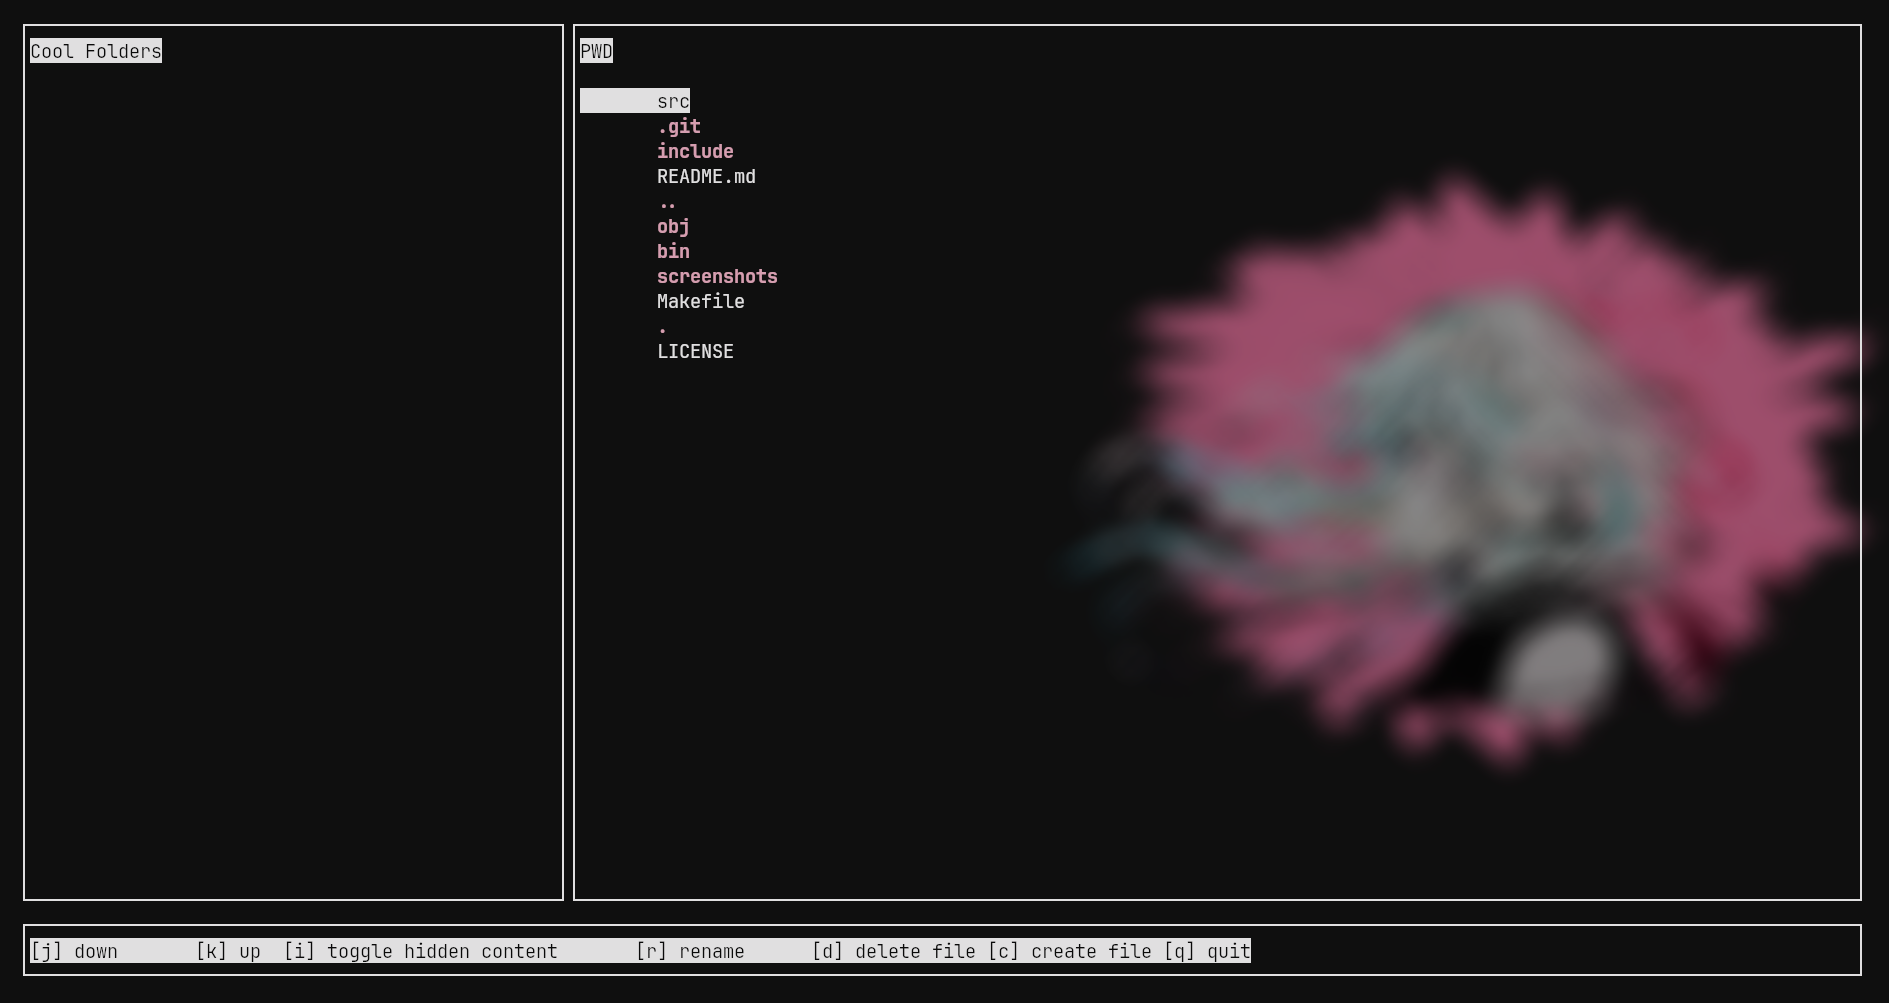
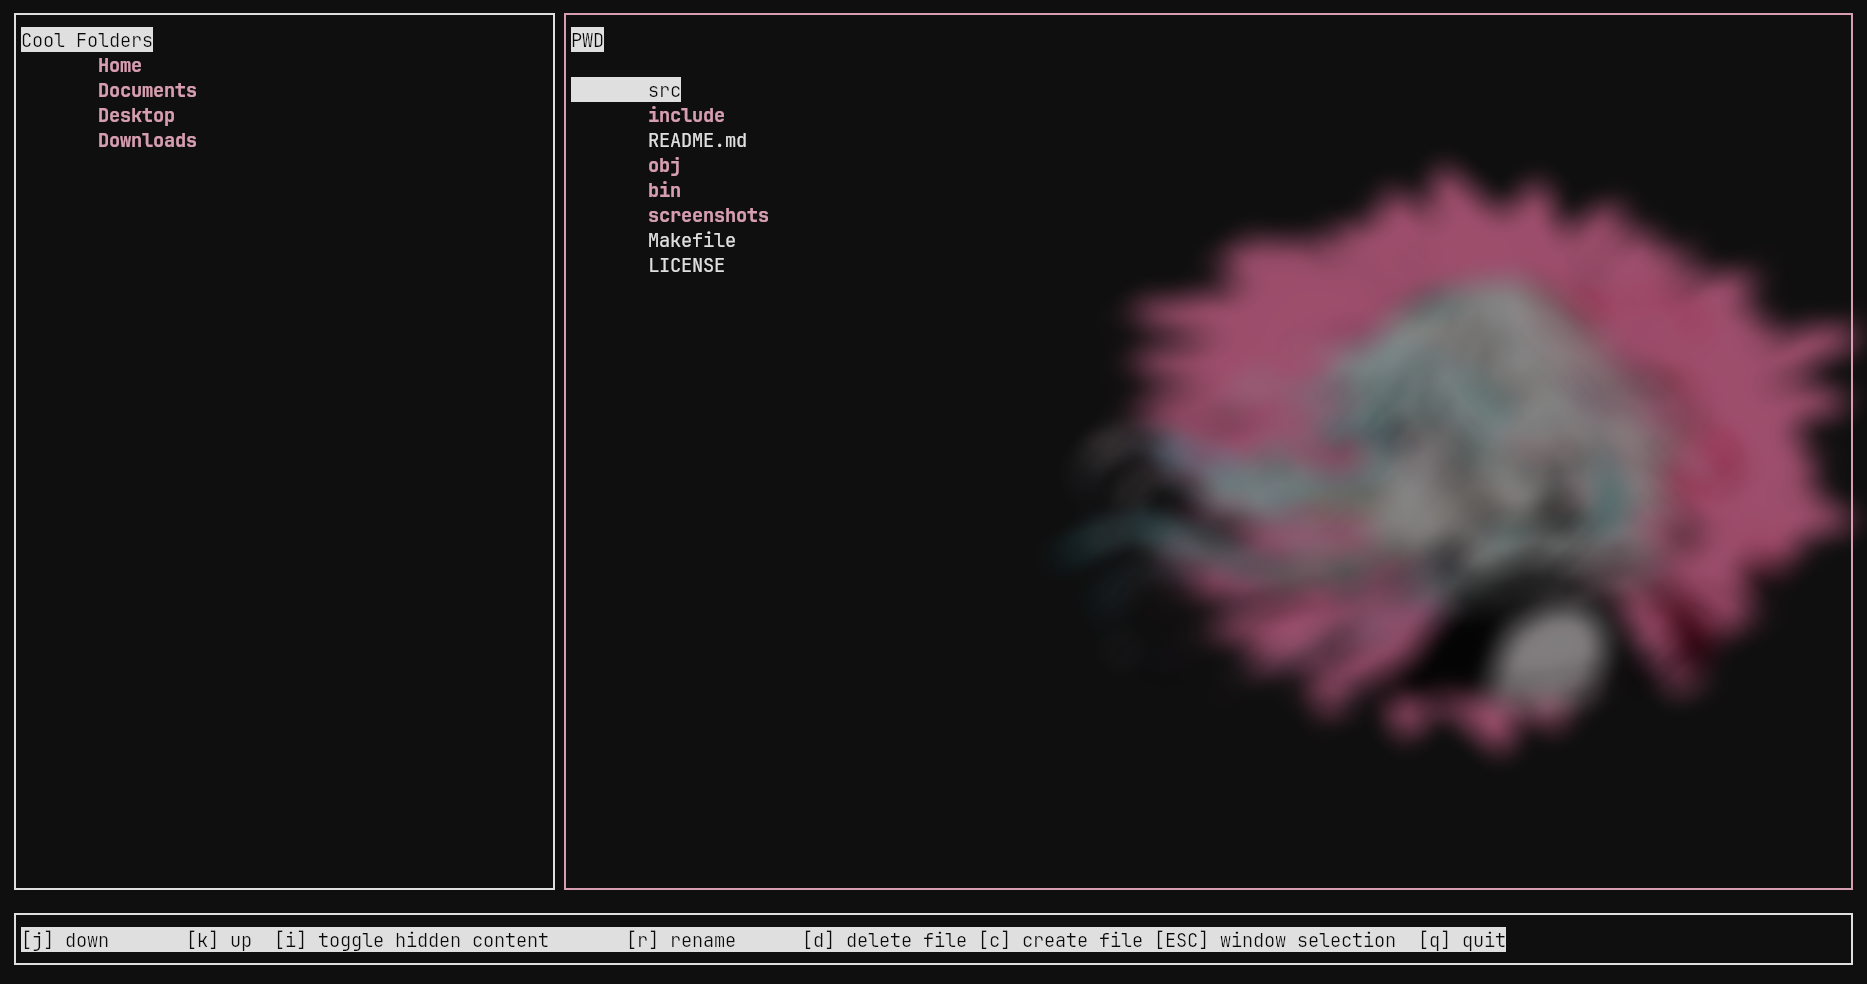
It worksgit add . yuhu

diff --git a/src/controls.c b/src/controls.c
@@ -12,13 +12,12 @@
 void windowSelector()
 {
 	char cwd[1024];
-	int amt, amt2;
 
-	pins = dirGetPinned(&amt);
-	dir = dirGetContent(getcwd(cwd, sizeof(cwd)), &amt2);
+	pins = dirGetPinned();
+	dir = dirGetContent(getcwd(cwd, sizeof(cwd)));
 
-	printFolderMenu(leftPanelWindow, -1, 0, 2, pins);
-	printFolderMenu(rightPanelWindow, -1, 0, 3, dir);
+	printFolderMenu(leftPanelWindow, -1, 0, 2, pins, amount_pins);
+	printFolderMenu(rightPanelWindow, -1, 0, 3, dir, amount_folder);
 	while(1)
 	{
 		char ch = getch();
@@ -48,20 +47,20 @@ void windowSelector()
 			default:
 				continue;
 		}
-		printFolderMenu(leftPanelWindow, -1, 0, 2, pins);
-		printFolderMenu(rightPanelWindow, -1, 0, 3, dir);
+		printFolderMenu(leftPanelWindow, -1, 0, 2, pins, amount_pins);
+		printFolderMenu(rightPanelWindow, -1, 0, 3, dir, amount_folder);
 	}
 }
 void ctrlPinView()
 {
-	int amt, sel = 0, start = 0, itemAmount = LINES-4-4; /* Calculates number of max. Printed items */
+	int sel = 0, start = 0, itemAmount = LINES-4-4; /* Calculates number of max. Printed items */
 
 	int boolean = 1;
 
-	dirGetPinned(&amt);
+	dirGetPinned();
 
-	printFolderMenu(leftPanelWindow, 0, start, 2, pins);
-	printFolderMenu(rightPanelWindow, -1, 0, 3, dir);
+	printFolderMenu(leftPanelWindow, 0, start, 2, pins, amount_pins);
+	printFolderMenu(rightPanelWindow, -1, 0, 3, dir, amount_folder);
 
 	while(boolean)
 	{
@@ -74,22 +73,22 @@ void ctrlPinView()
 				{
 					start++;
 				} 
-				if(sel == amt - 1)
+				if(sel == amount_pins - 1)
 				{
 					start = 0;
 				}
-				sel = (sel + 1) % amt;
+				sel = (sel + 1) % amount_pins;
 				break;
 			case 'k':
 				if(sel <= start && sel != 0)
 				{
 					start--;
 				}
-				else if(sel == 0 && amt > itemAmount)
+				else if(sel == 0 && amount_pins > itemAmount)
 				{
-					start = amt-itemAmount-1;
+					start = amount_pins-itemAmount-1;
 				}
-				sel = (sel - 1 + amt) % amt;
+				sel = (sel - 1 + amount_pins) % amount_pins;
 				break;
 			case '\n':
 				wclear(footerWindow);
@@ -110,7 +109,7 @@ void ctrlPinView()
 			default:
 				continue;
 		}
-		printFolderMenu(leftPanelWindow,  sel%amt, start, 2, pins);
+		printFolderMenu(leftPanelWindow,  sel%amount_pins, start, 2, pins, amount_pins);
 		drawTopbars();
 	}
 	endwin();
@@ -119,7 +118,7 @@ void ctrlPinView()
 
 void ctrlFolderView()
 {
-	int amt, sel = 0, start = 0, itemAmount = LINES-4-4; /* Calculates number of max. Printed items */
+	int sel = 0, start = 0, itemAmount = LINES-4-4; /* Calculates number of max. Printed items */
 
 	int boolean = 1;
 
@@ -130,10 +129,10 @@ void ctrlFolderView()
 		printf("Error reading Path");
 	}
 
-	dir = dirGetContent(path, &amt);
+	dir = dirGetContent(path);
 
-	printFolderMenu(rightPanelWindow, 0, start, 3, dir);
-	printFolderMenu(leftPanelWindow, -1, 0, 2, pins);
+	printFolderMenu(rightPanelWindow, 0, start, 3, dir, amount_folder);
+	printFolderMenu(leftPanelWindow, -1, 0, 2, pins, amount_pins);
 
 	while(boolean)
 	{
@@ -146,22 +145,22 @@ void ctrlFolderView()
 				{
 					start++;
 				} 
-				if(sel == amt - 1)
+				if(sel == amount_folder - 1)
 				{
 					start = 0;
 				}
-				sel = (sel + 1) % amt;
+				sel = (sel + 1) % amount_folder;
 				break;
 			case 'k':
 				if(sel <= start && sel != 0)
 				{
 					start--;
 				}
-				else if(sel == 0 && amt > itemAmount)
+				else if(sel == 0 && amount_folder > itemAmount)
 				{
-					start = amt-itemAmount-1;
+					start = amount_folder-itemAmount-1;
 				}
-				sel = (sel - 1 + amt) % amt;
+				sel = (sel - 1 + amount_folder) % amount_folder;
 				break;
 			case '\n':
 				if(dir[sel]->s == F_FALSE)
@@ -223,7 +222,7 @@ void ctrlFolderView()
 			default:
 				continue;
 		}
-		printFolderMenu(rightPanelWindow,  sel%amt, start, 3, dir);
+		printFolderMenu(rightPanelWindow,  sel%amount_folder, start, 3, dir, amount_folder);
 		drawTopbars();
 	}
 	endwin();

diff --git a/src/dirFunctions.c b/src/dirFunctions.c
@@ -6,7 +6,7 @@
 #include "../include/globals.h"
 
 /* Function to return a **dirContent so I can get Dir Content quickly. Probably slow af */
-struct dirContent **dirGetContent(const char *path, int *amt)
+struct dirContent **dirGetContent(const char *path)
 {
 	DIR *d;
 	struct dirent *entries;
@@ -84,11 +84,11 @@ struct dirContent **dirGetContent(const char *path, int *amt)
 	}
 	content = final;
 	content[i] = NULL;
-	*amt = i;
+	amount_folder = i;
 
 	return content;
 }
-struct dirContent** dirGetPinned(int *size)
+struct dirContent** dirGetPinned()
 {
 	homeDir = getenv("HOME");	
 	if(homeDir == NULL)
@@ -123,6 +123,15 @@ struct dirContent** dirGetPinned(int *size)
 		content = realloc(content, (i + 1) * sizeof(struct dirContent*));
 		if(content == NULL)
 		{
+		    if (fptr != NULL) {
+			fclose(fptr);
+		    }
+		    for (int j = 0; j < i; j++) {
+			free(content[j]->name);
+			free(content[j]->path);
+			free(content[j]);
+		    }
+		        free(content);
 			free(currentLine);
 			return NULL;
 		}
@@ -130,21 +139,30 @@ struct dirContent** dirGetPinned(int *size)
 		content[i] = malloc(sizeof(struct dirContent));
 		if(content[i] == NULL)
 		{
-			free(content);
+		    if (fptr != NULL) {
+			fclose(fptr);
+		    }
+		    for (int j = 0; j < i; j++) {
+			free(content[j]->name);
+			free(content[j]->path);
+			free(content[j]);
+		    }
+		        free(content);
+			free(currentLine);
 			return NULL;
 		}
 		token = strtok(currentLine, " ");
-		content[i]->name = strdup(token); // Somethings wrong
+		content[i]->name = token ? strdup(token) : strdup("");
 
 		token = strtok(NULL, " ");
-		content[i]->path = strdup(token); // This time here lol
+		content[i]->path = token ? strdup(token) : strdup("");
 		content[i]->s = F_TRUE;
 
 		free(currentLine);
 		i++;
 	}
 	fclose(fptr);
-	*size = i;
+	amount_pins = i;
 	return content;
 }
 

diff --git a/src/draw.c b/src/draw.c
@@ -1,5 +1,4 @@
 #include<ncurses.h>
-#include<stdlib.h>
 
 #include "../include/draw.h"
 #include "../include/dirFunctions.h"
@@ -102,14 +101,14 @@ void drawLayout()
 	
 }
 
-void printFolderMenu(WINDOW *w, int highlight, int start, int offset, struct dirContent **dire)
+void printFolderMenu(WINDOW *w, int highlight, int start, int offset, struct dirContent **dire, int amount)
 {
 	int count = offset;
 
 	init_pair(1, COLOR_WHITE, COLOR_BLACK);
 	init_pair(2, COLOR_MAGENTA, COLOR_BLACK);
 
-	for(int i = start; dire[i] != NULL; i++)
+	for(int i = start; i < amount; i++)
 	{
 		if(i == highlight)
 		{
@@ -117,7 +116,7 @@ void printFolderMenu(WINDOW *w, int highlight, int start, int offset, struct dir
 			wattron(w, COLOR_PAIR(1));
 			mvwprintw(w, count, 1, "\t%s\n", dire[i]->name);
 			wattroff(w, A_REVERSE);
-			wattroff(w, COLOR_PAIR(1));
+			wattroff(w, COLOR_PAIR(1)); 
 		} else {
 			if(dire[i]->s == F_TRUE)
 			{

diff --git a/include/draw.h b/include/draw.h
@@ -12,6 +12,6 @@ void drawLayout();
 void initScreen();
 void createWindows();
 void drawTopbars();
-void printFolderMenu(WINDOW *w, int highlight, int start, int offset, struct dirContent **dire);
+void printFolderMenu(WINDOW *w, int highlight, int start, int offset, struct dirContent **dire, int amount);
 
 #endif

diff --git a/include/dirFunctions.h b/include/dirFunctions.h
@@ -16,8 +16,8 @@ struct dirContent
 	char *path;
 };
 
-struct dirContent **dirGetContent(const char *path, int *size);
-struct dirContent** dirGetPinned(int *size);
+struct dirContent **dirGetContent(const char *path);
+struct dirContent** dirGetPinned();
 
 char *readLine(FILE *file);
 

diff --git a/src/globals.c b/src/globals.c
@@ -16,3 +16,6 @@ char *homeDir = NULL;
 
 struct dirContent **dir = NULL;
 struct dirContent **pins = NULL;
+
+int amount_pins;
+int amount_folder;

diff --git a/include/globals.h b/include/globals.h
@@ -20,4 +20,8 @@ extern char* textEditor;
 
 extern char *homeDir;
 
+extern int amount_pins;
+
+extern int amount_folder;
+
 #endif
